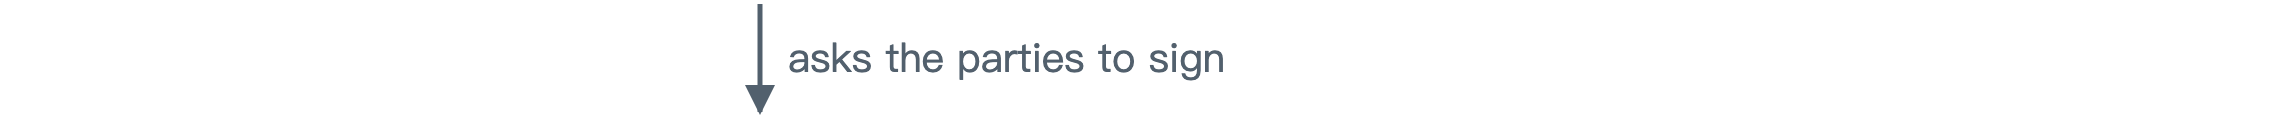
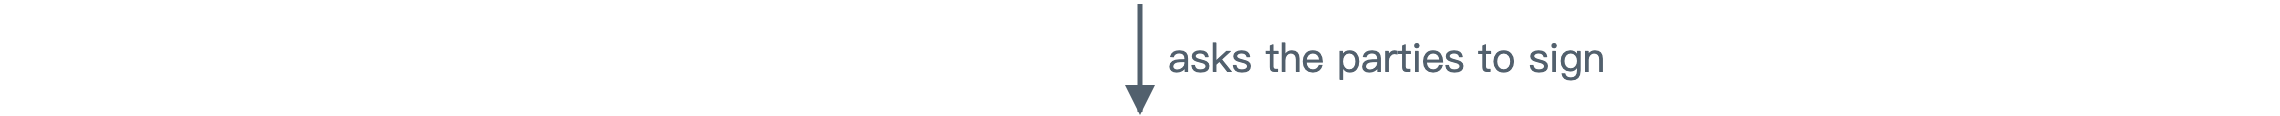
docs diagrams: README architecture grid reads top to bottom (operators, identity, core API, then the rest); other diagrams checked

Changed region(s): [[0.3425, 0.3621, 0.7162, 0.6983], [0.4671, 0.7241, 0.5294, 0.931], [0.3114, 0.7241, 0.3425, 0.931]]

diff --git a/docs/images/build.py b/docs/images/build.py
@@ -226,16 +226,19 @@ def architecture():
         d.box(left, 2, w - left - right, h - 4, title, sub, c, size=26, sub_size=21)
         return d
 
-    d = tile("operators", 380, H, "Operators", "approve and ask", "gray", right=99)
-    d.arrow(281, H / 2, 380, H / 2)
+    tile("operators", 380, H, "Operators", "approve and ask", "gray").write()
+
+    d = D("arch-a", 380, 58)  # operators to identity
+    d.arrow(190, 2, 190, 56)
     d.write()
-    d = tile("identity", 380, H, "Identity", "login, roles", "purple", right=99)
-    d.arrow(281, H / 2, 380, H / 2)
+    tile("identity", 380, H, "Identity", "login, roles", "purple").write()
+    d = D("arch-b", 380, 58)  # identity to the API
+    d.arrow(190, 2, 190, 56)
     d.write()
     tile("api", 380, H, "Core API", "queues jobs only", "blue").write()
 
-    d = D("arch-down", 1140, 58)  # from the API (right tile) to three boxes
-    d.line(950, 2, 950, 28)
+    d = D("arch-down", 1140, 58)  # from the API (centre) to three boxes
+    d.line(570, 2, 570, 28)
     d.line(cols[0], 28, cols[2], 28)
     for x in cols:
         d.arrow(x, 28, x, 56)
@@ -245,19 +248,20 @@ def architecture():
     tile("ledger", 380, H, "Ledger", "double entry, Reconcile", "amber").write()
     tile("audit", 380, H, "Audit trail", "hash chains", "purple").write()
 
-    d = D("arch-merge", 1140, 58)
-    d.arrow(cols[0], 2, cols[0], 56, "queues sign jobs", lx=cols[0] + 14, ly=36, anchor="start")
+    d = D("arch-merge", 1140, 58)  # from the row above into hot and cold
+    d.arrow(cols[1], 2, cols[1], 56)
     d.write()
 
-    d = tile("zone", 760, H, "Signing zone", "checks every job before any key signs", "green", right=99)
-    d.arrow(760, H / 2, 661, H / 2, both=False)
+    tile("tiers", 380, H, "Hot and cold", "bands, refills", "blue").write()
+
+    d = D("arch-merge2", 1140, 58)
+    d.arrow(cols[1], 2, cols[1], 56, "queues sign jobs", lx=cols[1] + 14, ly=36, anchor="start")
     d.write()
-    d = tile("tiers", 380, H, "Hot and cold", "bands, refills", "blue")
-    d.arrow(19, H / 2, 0, H / 2)
-    d.write()
+
+    tile("zone", 760, H, "Signing zone", "checks every job before any key signs", "green").write()
 
     d = D("arch-down2", 1140, 58)
-    d.arrow(380, 2, 380, 56, "asks the parties to sign", lx=394, ly=36, anchor="start")
+    d.arrow(cols[1], 2, cols[1], 56, "asks the parties to sign", lx=cols[1] + 14, ly=36, anchor="start")
     d.write()
 
     tile("mpc", 1140, H, "MPC parties A, B, C", "key shares, each sealed in its own HSM token", "green", right=19).write()

diff --git a/README.zh-CN.md b/README.zh-CN.md
@@ -14,11 +14,17 @@
 ## 架构
 
 <p align="center">
-<img src="docs/images/zh/arch-operators.png" width="24%" alt="运营和审批人"><a href="docs/zh/identity.md"><img src="docs/images/zh/arch-identity.png" width="24%" alt="身份"></a><img src="docs/images/zh/arch-api.png" width="24%" alt="核心 API"><br/>
+<img src="docs/images/zh/arch-operators.png" width="24%" alt="运营和审批人"><br/>
+<img src="docs/images/zh/arch-a.png" width="24%" alt=""><br/>
+<a href="docs/zh/identity.md"><img src="docs/images/zh/arch-identity.png" width="24%" alt="身份"></a><br/>
+<img src="docs/images/zh/arch-b.png" width="24%" alt=""><br/>
+<img src="docs/images/zh/arch-api.png" width="24%" alt="核心 API"><br/>
 <img src="docs/images/zh/arch-down.png" width="72%" alt=""><br/>
 <a href="docs/zh/workflows.md"><img src="docs/images/zh/arch-workflows.png" width="24%" alt="工作流"></a><a href="docs/zh/ledger.md"><img src="docs/images/zh/arch-ledger.png" width="24%" alt="账本"></a><a href="docs/zh/audit.md"><img src="docs/images/zh/arch-audit.png" width="24%" alt="审计记录"></a><br/>
 <img src="docs/images/zh/arch-merge.png" width="72%" alt=""><br/>
-<a href="docs/zh/signing-zone.md"><img src="docs/images/zh/arch-zone.png" width="48%" alt="签名区"></a><a href="docs/zh/tiers.md"><img src="docs/images/zh/arch-tiers.png" width="24%" alt="冷热钱包"></a><br/>
+<a href="docs/zh/tiers.md"><img src="docs/images/zh/arch-tiers.png" width="24%" alt="冷热钱包"></a><br/>
+<img src="docs/images/zh/arch-merge2.png" width="72%" alt=""><br/>
+<a href="docs/zh/signing-zone.md"><img src="docs/images/zh/arch-zone.png" width="48%" alt="签名区"></a><br/>
 <img src="docs/images/zh/arch-down2.png" width="72%" alt=""><br/>
 <a href="docs/zh/mpc.md"><img src="docs/images/zh/arch-mpc.png" width="72%" alt="MPC 参与方"></a><br/>
 <img src="docs/images/zh/arch-split.png" width="72%" alt=""><br/>

diff --git a/README.md b/README.md
@@ -14,11 +14,17 @@ Two rules carry the design:
 ## Architecture
 
 <p align="center">
-<img src="docs/images/arch-operators.png" width="24%" alt="Operators and approvers"><a href="docs/identity.md"><img src="docs/images/arch-identity.png" width="24%" alt="Identity"></a><img src="docs/images/arch-api.png" width="24%" alt="Core API"><br/>
+<img src="docs/images/arch-operators.png" width="24%" alt="Operators and approvers"><br/>
+<img src="docs/images/arch-a.png" width="24%" alt=""><br/>
+<a href="docs/identity.md"><img src="docs/images/arch-identity.png" width="24%" alt="Identity"></a><br/>
+<img src="docs/images/arch-b.png" width="24%" alt=""><br/>
+<img src="docs/images/arch-api.png" width="24%" alt="Core API"><br/>
 <img src="docs/images/arch-down.png" width="72%" alt=""><br/>
 <a href="docs/workflows.md"><img src="docs/images/arch-workflows.png" width="24%" alt="Workflows"></a><a href="docs/ledger.md"><img src="docs/images/arch-ledger.png" width="24%" alt="Ledger"></a><a href="docs/audit.md"><img src="docs/images/arch-audit.png" width="24%" alt="Audit trail"></a><br/>
 <img src="docs/images/arch-merge.png" width="72%" alt=""><br/>
-<a href="docs/signing-zone.md"><img src="docs/images/arch-zone.png" width="48%" alt="Signing zone"></a><a href="docs/tiers.md"><img src="docs/images/arch-tiers.png" width="24%" alt="Hot and cold"></a><br/>
+<a href="docs/tiers.md"><img src="docs/images/arch-tiers.png" width="24%" alt="Hot and cold"></a><br/>
+<img src="docs/images/arch-merge2.png" width="72%" alt=""><br/>
+<a href="docs/signing-zone.md"><img src="docs/images/arch-zone.png" width="48%" alt="Signing zone"></a><br/>
 <img src="docs/images/arch-down2.png" width="72%" alt=""><br/>
 <a href="docs/mpc.md"><img src="docs/images/arch-mpc.png" width="72%" alt="MPC parties"></a><br/>
 <img src="docs/images/arch-split.png" width="72%" alt=""><br/>
